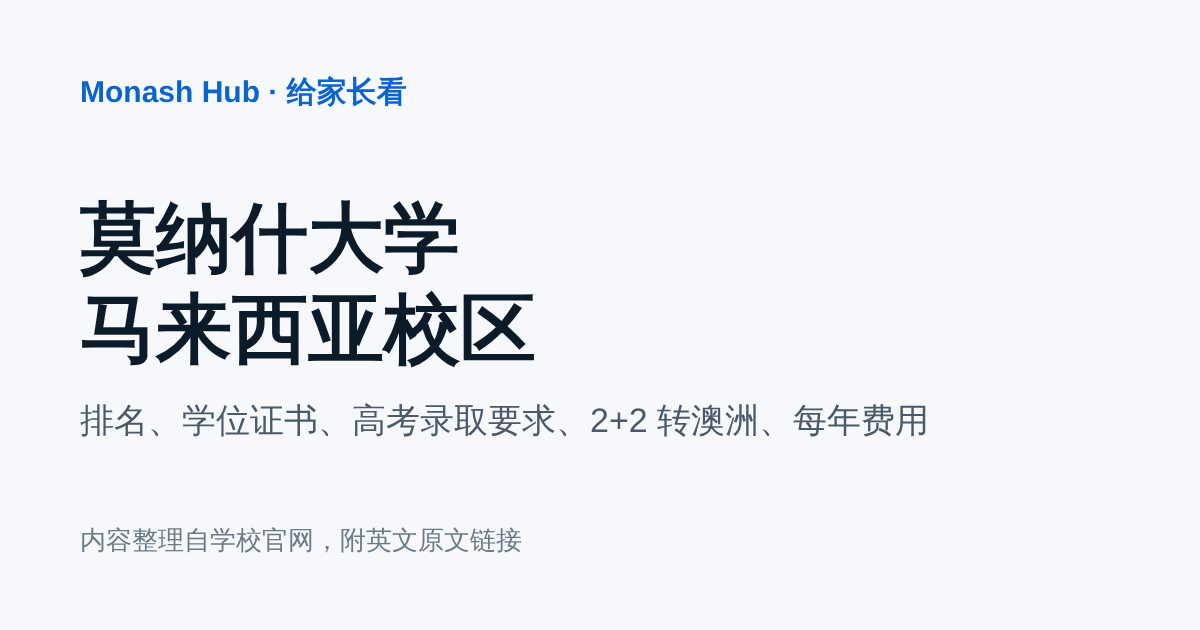
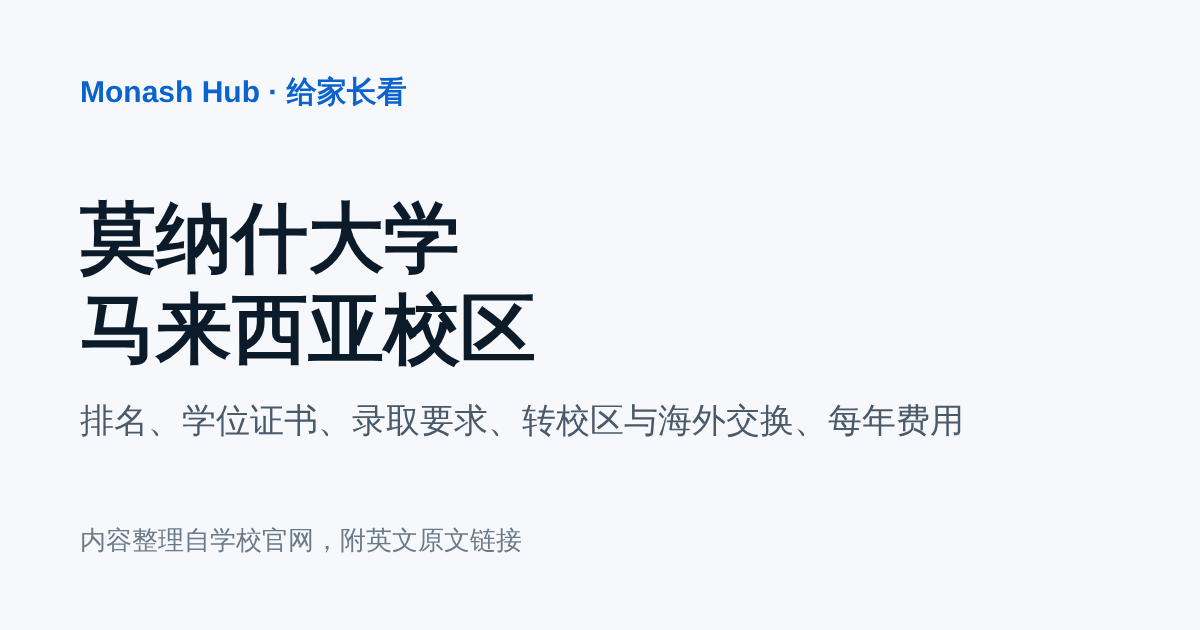
Cover more entry routes, campus transfer and exchange on the parents page
Entry scores now list A-Level, IB and MUFY next to the gaokao for each
sample degree, with the prerequisite subjects and how A-Level is scored. The
MUFY foundation year and programmes like CIMP are described as a way in.
The 2+2 engineering section is replaced by the Internal Course Transfer page,
and a new section lists Semester Exchange, Semester in Australia, the Global
Summer and Winter Programs and the Prato centre, with the 马莫百科 posts on
exchange as further reading.

Changed region(s): [[0.2775, 0.6333, 0.8017, 0.6937]]

diff --git a/frontend/pages/parents.vue b/frontend/pages/parents.vue
@@ -7,10 +7,10 @@
  * Tuition comes from the same /v1/fees table as /fees; the rest is in
  * data/parents.ts.
  */
-import { MAMO_ACCOUNT } from '~/data/mamo'
+import { MAMO_ACCOUNT, MAMO_POSTS } from '~/data/mamo'
 import {
-  DEGREE_SOURCE, ENGLISH_SOURCE, ENTRY_SOURCE, FEE_EXAMPLES, GAOKAO, LIVING, MYR_TO_CNY,
-  RANKINGS, RANKINGS_SOURCE, SUBJECT_RANKING, TRANSFER, VISA
+  DEGREE_SOURCE, ENGLISH_SOURCE, ENTRY_SCORES, ENTRY_SOURCE, EXCHANGE, FEE_EXAMPLES, LIVING, MYR_TO_CNY,
+  RANKINGS, RANKINGS_SOURCE, SCORE_METHOD_URL, SUBJECT_RANKING, TRANSFER, VISA
 } from '~/data/parents'
 import type { FeeRow } from '~/utils/tuition'
 
@@ -39,10 +39,11 @@ const rm = (n: number) => `RM${group(n)}`
 const cny = (n: number) => `约 ${(n * MYR_TO_CNY / 10000).toFixed(1)} 万元`
 const cnyPlain = (n: number) => `约 ${group(Math.round(n * MYR_TO_CNY / 10) * 10)} 元`
 
-const score = (percent: number) => {
-  const n = (750 * percent) / 100
-  return Number.isInteger(n) ? `${n} 分` : `约 ${Math.round(n)} 分`
-}
+const score = (percent: number) => Math.round((750 * percent) / 100)
+
+// The account's own posts on exchange, as further reading under the official programmes.
+const exchangePosts = MAMO_POSTS.filter(p => p.topic === 'exchange' && p.url)
+  .map(p => ({ ...p, title: p.title.replace(/^马莫百科[｜|]\s*/, '') }))
 
 const copied = ref(false)
 async function copyId() {
@@ -56,7 +57,7 @@ async function copyId() {
 }
 
 const title = 'Monash 马来西亚校区：给家长的介绍'
-const description = '莫纳什大学马来西亚校区的世界排名、学位证书、高考录取要求、2+2 转澳洲本部和每年费用，内容来自学校官网。'
+const description = '莫纳什大学马来西亚校区的世界排名、学位证书、高考和国际课程录取要求、转澳洲校区、海外交换和每年费用，内容来自学校官网。'
 useSeoMeta({
   title,
   description,
@@ -87,7 +88,8 @@ useHead({
         <a href="#rankings">学校排名</a>
         <a href="#degree">毕业证书</a>
         <a href="#entry">录取要求</a>
-        <a href="#transfer">转澳洲本部</a>
+        <a href="#transfer">转澳洲校区</a>
+        <a href="#exchange">海外交换</a>
         <a href="#cost">费用</a>
         <a href="#contact">咨询</a>
       </nav>
@@ -124,39 +126,69 @@ useHead({
 
     <section id="entry" class="block">
       <h2>录取要求</h2>
-      <p>学校接受高考成绩直接申请本科。下表是官网列出的最低要求，按高考总分的百分比计算：</p>
-      <table class="table">
-        <thead>
-          <tr><th>专业</th><th>高考总分要求</th><th>满分 750 分时</th></tr>
-        </thead>
-        <tbody>
-          <tr v-for="g in GAOKAO" :key="g.course">
-            <td>{{ g.course }}</td>
-            <td>{{ g.percent }}%</td>
-            <td>{{ score(g.percent) }}</td>
-          </tr>
-        </tbody>
-      </table>
-      <p class="note">
-        上海（满分 660 分）、海南（满分 900 分）等总分不同的省份，按本省满分乘以同样的百分比计算。每年的要求可能调整，以录取当年官网为准。此外还需要达到英语要求，雅思等考试的具体分数见英文原文。
+      <p>
+        学校接受多种高中学历直接申请本科，包括中国高考、A-Level、IB 国际文凭等，每个专业有各自的分数线和先修科目。下面是三个专业在官网列出的最低要求：
       </p>
+      <div class="scores">
+        <article v-for="e in ENTRY_SCORES" :key="e.course" class="score-card">
+          <h3>{{ e.course }}</h3>
+          <dl>
+            <div><dt>高考</dt><dd>总分 {{ e.gaokao }}%<span class="sub">满分 750 分约合 {{ score(e.gaokao) }} 分</span></dd></div>
+            <div><dt>A-Level</dt><dd>{{ e.aLevel ?? '见英文原文' }}<template v-if="e.aLevel"> 分</template></dd></div>
+            <div><dt>IB 文凭</dt><dd>{{ e.ib ?? '见英文原文' }}<template v-if="e.ib"> 分</template></dd></div>
+            <div><dt>MUFY 预科</dt><dd>{{ e.mufy ?? '见英文原文' }}</dd></div>
+            <div><dt>先修科目</dt><dd>{{ e.prerequisite }}</dd></div>
+          </dl>
+          <a :href="e.url" class="src-link" target="_blank" rel="noopener external">查看英文原文</a>
+        </article>
+      </div>
+      <p class="note">
+        高考按总分的百分比计算，上海（满分 660 分）、海南（满分 900 分）等省份按本省满分乘以同样的百分比。A-Level 取两年内最好的三门成绩，A* 和 A 记 5 分，B 记 4 分，C 记 3 分，依此类推，A* 另有加分。AP 等其他体系的计分方法见官网计分说明。以上分数官网注明适用于 2024 年入读 MUFY 的学生，每年可能调整，以录取当年官网为准。
+      </p>
+      <h3>先读预科再升本科</h3>
+      <p>
+        没有参加高考，或成绩未达到直接入读要求的学生，可以先在马来西亚校区读一年 Monash 大学预科（MUFY），按预科成绩升读本科，各专业要求的预科成绩见上表。也有学生先在其他院校读加拿大国际大学预科（CIMP）等课程，再申请本科。
+      </p>
+      <p>此外，所有申请人都需要达到英语要求，雅思等考试的具体分数见英文原文。</p>
       <p class="src">
-        <a :href="ENTRY_SOURCE.url" target="_blank" rel="noopener external">查看英文原文（学术要求）</a>
+        <a :href="ENTRY_SOURCE.url" target="_blank" rel="noopener external">查看英文原文（本科学术要求）</a>
+        <a :href="SCORE_METHOD_URL" target="_blank" rel="noopener external">查看英文原文（计分说明）</a>
         <a :href="ENGLISH_SOURCE.url" target="_blank" rel="noopener external">查看英文原文（英语要求）</a>
         <span>核对于 {{ ENTRY_SOURCE.checked }}</span>
       </p>
     </section>
 
     <section id="transfer" class="block">
-      <h2>2+2 转澳洲本部</h2>
+      <h2>转到澳洲校区</h2>
       <p>
-        部分工程专业可以前两年在马来西亚校区就读，后两年转到墨尔本的 Clayton 校区完成学业，例如{{ TRANSFER.course }}。转校区需要前两年的加权平均成绩达到 55 分以上，并且在澳洲还有至少 48 学分的课程要修。毕业证书同样由莫纳什大学颁发。
+        在读本科生在完成学业前，可以申请转到澳洲的校区，继续读同类学位。各学院对已修学分和平均成绩有各自的要求，由澳洲校区的学院审批。毕业证书同样由莫纳什大学颁发。
       </p>
       <p class="src">
-        <a :href="TRANSFER.courseUrl" target="_blank" rel="noopener external">查看英文原文（专业介绍）</a>
-        <a :href="TRANSFER.ruleUrl" target="_blank" rel="noopener external">查看英文原文（转校区条件）</a>
+        <a :href="TRANSFER.url" target="_blank" rel="noopener external">查看英文原文（Internal Course Transfer）</a>
+        <a :href="TRANSFER.rulesUrl" target="_blank" rel="noopener external">查看英文原文（转校区条件）</a>
         <span>核对于 {{ TRANSFER.checked }}</span>
       </p>
+    </section>
+
+    <section id="exchange" class="block">
+      <h2>海外交换</h2>
+      <p>不转校区的学生，也可以通过以下项目到海外学习一段时间：</p>
+      <ul class="programs">
+        <li v-for="p in EXCHANGE.programs" :key="p.name">
+          <h3>{{ p.name }}</h3>
+          <p>{{ p.text }}</p>
+          <a :href="p.url" class="src-link" target="_blank" rel="noopener external">查看英文原文</a>
+        </li>
+      </ul>
+      <p class="src"><span>核对于 {{ EXCHANGE.checked }}</span></p>
+      <div v-if="exchangePosts.length" class="reading">
+        <p class="reading-title">马莫百科写过的交换经历和申请指南：</p>
+        <ul>
+          <li v-for="p in exchangePosts" :key="p.url">
+            <a :href="p.url" target="_blank" rel="noopener external">{{ p.title }}</a>
+          </li>
+        </ul>
+      </div>
     </section>
 
     <section id="cost" class="block">
@@ -274,6 +306,26 @@ useHead({
 .living li { display: flex; justify-content: space-between; gap: var(--s4); padding: 8px 0; border-bottom: 1px solid var(--border); }
 .living b { font-weight: 500; white-space: nowrap; }
 
+.scores { display: grid; grid-template-columns: repeat(3, minmax(0, 1fr)); gap: var(--s3); margin: var(--s4) 0; }
+.score-card { padding: var(--s4); border: 1px solid var(--border); border-radius: 12px; background: var(--surface); }
+.score-card h3 { margin: 0 0 var(--s3); font-size: 1rem; }
+.score-card dl { margin: 0 0 var(--s3); }
+.score-card dl div { display: grid; grid-template-columns: 5.5em minmax(0, 1fr); gap: var(--s2); padding: 6px 0; border-bottom: 1px solid var(--border); font-size: 0.9rem; }
+.score-card dt { color: var(--muted); }
+.score-card dd { margin: 0; font-weight: 500; }
+.score-card .sub { display: block; color: var(--muted-2); font-size: 0.8rem; font-weight: 400; }
+.src-link { color: var(--brand); font-size: 0.8rem; }
+
+.programs { margin: 0 0 var(--s3); padding: 0; list-style: none; }
+.programs li { padding: var(--s3) 0; border-bottom: 1px solid var(--border); }
+.programs h3 { margin: 0 0 var(--s1); font-size: 1rem; }
+.programs p { margin: 0 0 var(--s1); }
+.reading { margin-top: var(--s4); padding: var(--s4); border-radius: 10px; background: var(--surface-2); }
+.reading-title { margin: 0 0 var(--s2) !important; font-weight: 500; }
+.reading ul { margin: 0; padding-left: 1.2em; }
+.reading li { margin: 4px 0; line-height: 1.6; }
+.reading a { color: var(--brand); }
+
 .note { color: var(--muted); font-size: 0.875rem; }
 .src { display: flex; flex-wrap: wrap; gap: var(--s1) var(--s4); color: var(--muted-2); font-size: 0.8rem; }
 .src a { color: var(--brand); }
@@ -296,6 +348,9 @@ useHead({
 }
 .agent { padding: var(--s3) var(--s4); border-radius: 10px; background: var(--surface-2); }
 
+@media (max-width: 760px) {
+  .scores { grid-template-columns: 1fr; }
+}
 @media (max-width: 520px) {
   .page { padding-top: var(--s4); }
   .ranks li { flex-direction: column; gap: 2px; }

diff --git a/frontend/data/parents.ts b/frontend/data/parents.ts
@@ -32,27 +32,93 @@ export const DEGREE_SOURCE: ParentSource = {
 }
 
 export const ENTRY_SOURCE: ParentSource = {
-  url: 'https://www.monash.edu.my/study/entry-requirements/academic',
-  checked: '2026-10-28'
+  url: 'https://www.monash.edu.my/study/entry-requirements/academic/undergraduate',
+  checked: '2026-10-29'
 }
+
+export const SCORE_METHOD_URL =
+  'https://www.monash.edu.my/study/entry-requirements/academic/undergraduate/calculating-entry-scores'
 
 export const ENGLISH_SOURCE: ParentSource = {
   url: 'https://www.monash.edu.my/study/entry-requirements/english',
   checked: '2026-10-28'
 }
 
-/** 高考总分的最低百分比，按满分 750 换算成分数。 */
-export const GAOKAO = [
-  { course: '计算机科学学士', percent: 70 },
-  { course: '土木工程学士（荣誉）', percent: 75 },
-  { course: '理学学士', percent: 65 }
+/**
+ * Each degree's published entry scores. The course pages say the figures are
+ * for students who started MUFY in 2024. A null is a score the page did not
+ * show when it was read, not a degree that refuses the qualification.
+ */
+export interface EntryScores {
+  course: string
+  url: string
+  gaokao: number
+  aLevel: number | null
+  ib: number | null
+  mufy: string | null
+  prerequisite: string
+}
+
+export const ENTRY_SCORES: EntryScores[] = [
+  {
+    course: '计算机科学学士',
+    url: 'https://www.monash.edu.my/study/entry-requirements/academic/undergraduate',
+    gaokao: 70,
+    aLevel: 9,
+    ib: 28,
+    mufy: '70%',
+    prerequisite: '数学'
+  },
+  {
+    course: '土木工程学士（荣誉）',
+    url: 'https://www.monash.edu.my/study/undergraduate/engineering/bachelor-of-engineering-honours-in-civil-engineering',
+    gaokao: 75,
+    aLevel: 10,
+    ib: null,
+    mufy: '76.25%',
+    prerequisite: '数学，以及化学或物理其中一门'
+  },
+  {
+    course: '理学学士',
+    url: 'https://www.monash.edu.my/study/undergraduate/science/bachelor-science/entry-score',
+    gaokao: 65,
+    aLevel: 9,
+    ib: 28,
+    mufy: '72.5%',
+    prerequisite: '生物、化学、物理、数学等理科中至少一门'
+  }
 ]
 
 export const TRANSFER = {
-  course: '材料工程学士（荣誉）',
-  courseUrl: 'https://www.monash.edu.my/study/undergraduate/engineering/bachelor-of-materials-engineering-honours',
-  ruleUrl: 'https://www.monash.edu/engineering/current-students/enrolment-and-re-enrolment/course-information/malaysia-clayton-transfer',
-  checked: '2026-10-28'
+  url: 'https://www.monash.edu.my/study/apply/internal-course-transfer',
+  rulesUrl: 'https://www.monash.edu/admissions/study-options/internal-transfer',
+  checked: '2026-10-29'
+}
+
+export const EXCHANGE = {
+  checked: '2026-10-29',
+  programs: [
+    {
+      name: 'Semester Exchange Program',
+      text: '到 Monash 的海外合作大学交换一到两个学期，所修学分计入 Monash 学位。',
+      url: 'https://www.monash.edu/study-abroad/overseas/monash-partner-programs/exchange'
+    },
+    {
+      name: 'Semester in Australia',
+      text: '到澳洲的校区读一个学期。学籍仍在马来西亚校区，学费按马来西亚校区标准以马币缴纳，每人限一次。',
+      url: 'https://www.monash.edu.my/study-abroad/outbound/Semester-in-Australia'
+    },
+    {
+      name: 'Global Summer Program / Global Winter Program',
+      text: '寒暑假期间到合作大学上 2 到 4 周的短期课程，可以计入学分。冬季项目在 6 至 7 月，夏季项目在 11 月至次年 2 月。',
+      url: 'https://www.monash.edu.my/study-abroad/outbound/short-term-programs'
+    },
+    {
+      name: 'Prato 中心（意大利）',
+      text: 'Monash 在意大利 Prato 设有自己的教学中心。2026 年 6 至 7 月，马来西亚校区的学生在这里参加了为期三周的短期课程。',
+      url: 'https://www.monash.edu.my/pages/latest/articles/2026/monash-malaysia-students-expand-global-perspectives-through-mgci-in-italy'
+    }
+  ]
 }
 
 /** 目前以 1 马币兑 1.65 人民币换算，具体以当天汇率为准。 */

diff --git a/CHANGELOG.md b/CHANGELOG.md
@@ -7,10 +7,11 @@ All notable changes to Monash Hub are documented here.
 ### Added (a page for parents)
 
 - `/parents` is a Chinese page for parents looking at the Malaysia campus:
-  world rankings, the degree certificate, the 高考 percentage each sample
-  degree asks for and what that is out of 750, the 2+2 move to Clayton,
-  tuition with a yuan estimate, the student visa fee, living costs, and how
-  to get in touch through 马莫百科. Each official fact links to the English
+  world rankings, the degree certificate, entry scores for three sample
+  degrees by 高考 (with the score out of 750), A-Level, IB and MUFY, the
+  MUFY foundation route, transferring to an Australian campus, the exchange
+  and short programmes, tuition with a yuan estimate, the student visa fee,
+  living costs, and how to get in touch through 马莫百科. Each official fact links to the English
   page it came from and says when it was checked.
 - Tuition is read from the same table as `/fees`. Yuan figures use 1 MYR =
   1.65 CNY, set in `data/parents.ts`.
